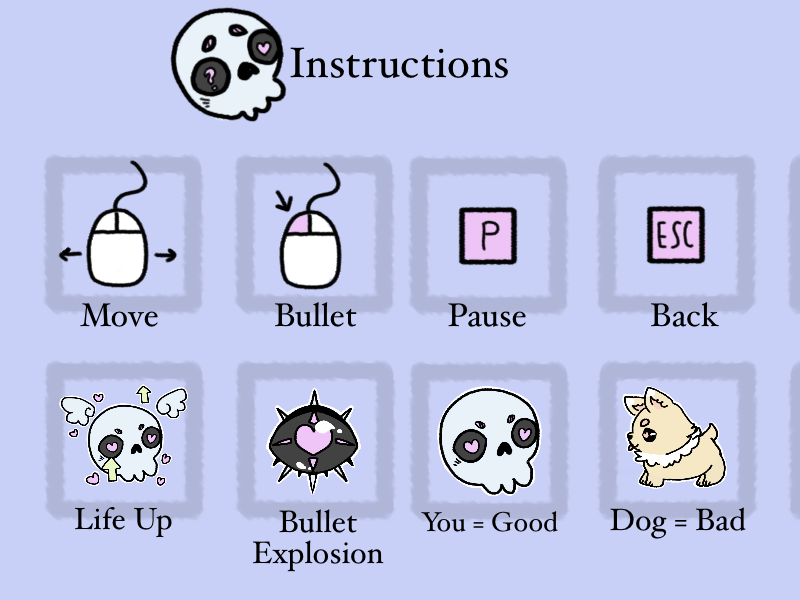
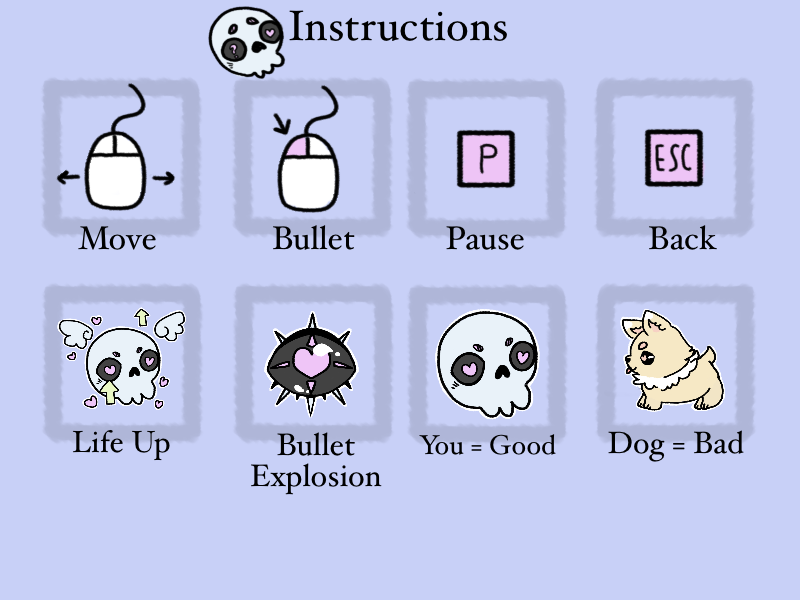
cheatsheet realigned

diff --git a/nogroup-2/main.py b/nogroup-2/main.py
@@ -79,7 +79,7 @@ while True:
     elif screen_flag == "cheat_sheet":
         eng.DrawStaticBackground(screen, WIDTH, HEIGHT, cheatsheet_img) 
         pygame.display.set_caption("Cheat Sheet")
-        play_button = eng.DrawMenuButton(screen, WIDTH, HEIGHT, 3, play_img)
+        play_button = eng.DrawMenuButton(screen, WIDTH, HEIGHT, 5.3, play_img)
         
     elif screen_flag == "game":
         screen_flag = "main_menu"
